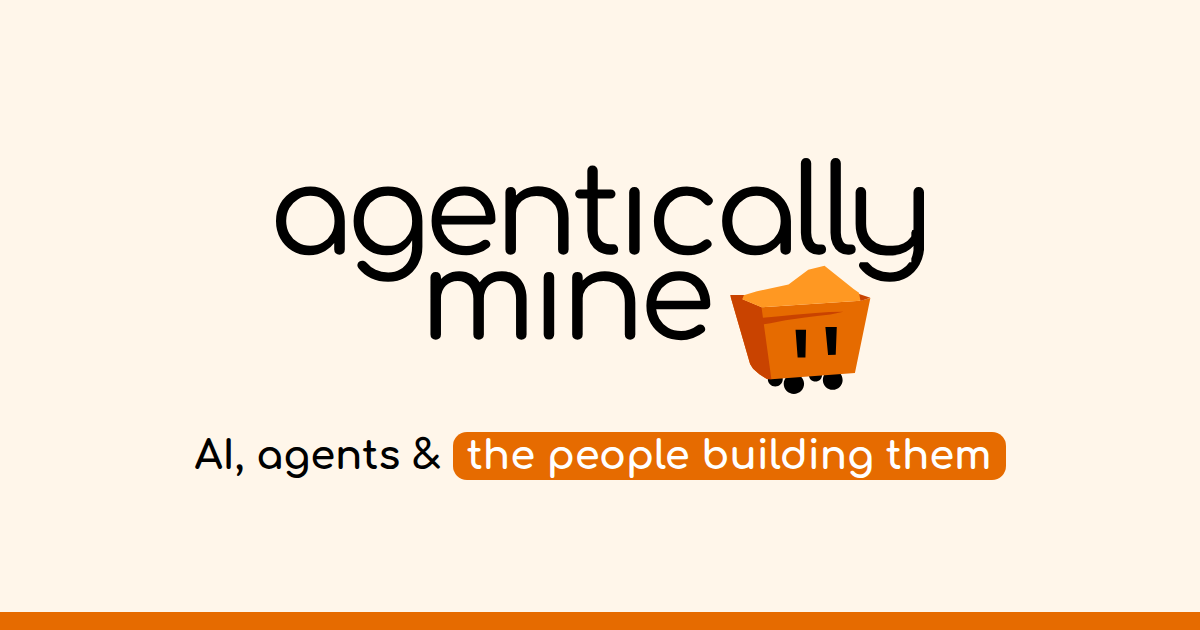
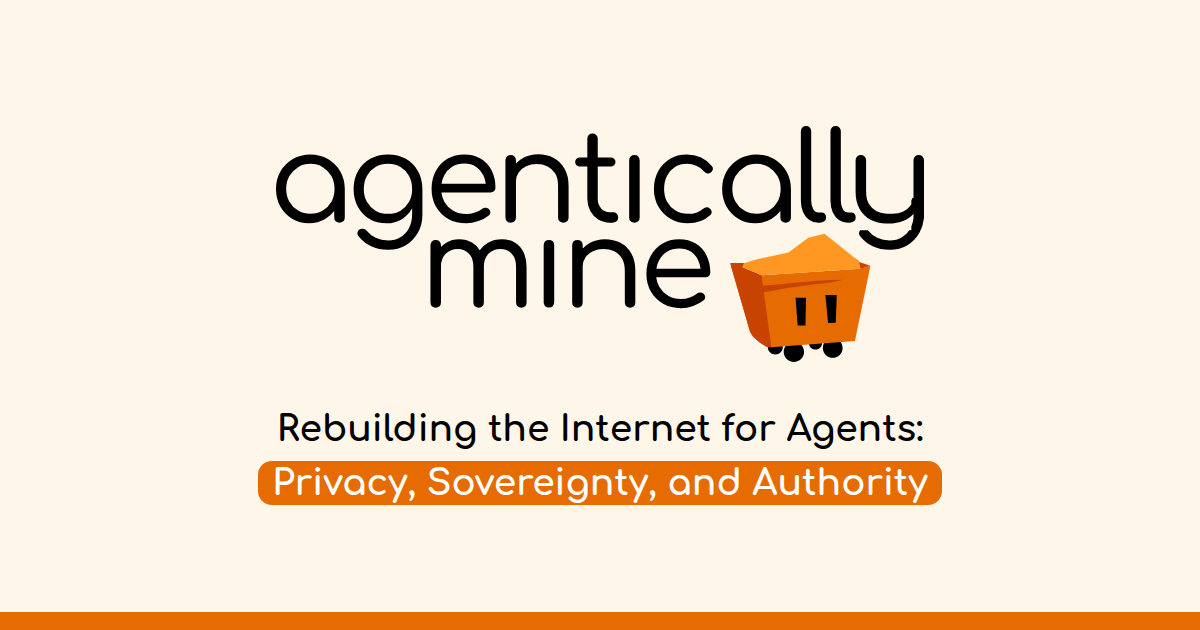
Tagline: Rebuilding the Internet for Agents: Privacy, Sovereignty, and Authority

Changed region(s): [[0.2158, 0.2111, 0.7708, 0.6333], [0.1542, 0.6635, 0.8633, 0.8143]]

diff --git a/index.html b/index.html
@@ -3,13 +3,13 @@
 <head>
 <meta charset="utf-8">
 <meta name="viewport" content="width=device-width, initial-scale=1">
-<title>Agentically Mine: AI, agents &amp; the people building them</title>
-<meta name="description" content="Agentically Mine is a podcast about AI, agents and how software and companies are changing, hosted by Ryo Koyama. Conversations with founders, engineers and investors, recorded on location.">
+<title>Agentically Mine: Rebuilding the Internet for Agents: Privacy, Sovereignty, and Authority</title>
+<meta name="description" content="Rebuilding the Internet for Agents: Privacy, Sovereignty, and Authority. Agentically Mine is a podcast about AI, agents and how software and companies are changing, hosted by Ryo Koyama. Conversations with founders, engineers and investors, recorded on location.">
 <link rel="canonical" href="https://agenticallymine.com/">
 <meta property="og:type" content="website">
 <meta property="og:url" content="https://agenticallymine.com/">
 <meta property="og:title" content="Agentically Mine">
-<meta property="og:description" content="AI, agents &amp; the people building them. A podcast hosted by Ryo Koyama.">
+<meta property="og:description" content="Rebuilding the Internet for Agents: Privacy, Sovereignty, and Authority. A podcast hosted by Ryo Koyama.">
 <meta property="og:image" content="https://agenticallymine.com/assets/og.png">
 <meta property="og:image:width" content="1200">
 <meta property="og:image:height" content="630">
@@ -161,7 +161,7 @@ footer a:hover{color:var(--ore)}
     </svg>
     <div class="wrap">
       <h1><img class="logo" src="assets/logo/stacked-color.svg" width="1760" height="663" alt="agentically mine" fetchpriority="high"></h1>
-      <p class="tagline">AI, agents &amp; <mark>the people building them</mark></p>
+      <p class="tagline">Rebuilding the Internet for Agents: <mark>Privacy, Sovereignty, and Authority.</mark></p>
       <p class="hosts-line">Straight-talking conversations with the founders, engineers and investors building the agentic era. Hosted by Ryo Koyama.</p>
       <div class="ctas">
         <a class="btn btn-orange" href="https://www.youtube.com/channel/UCnjm8JNrCvVdcAW1a8P4b4w?sub_confirmation=1" target="_blank" rel="noopener">
